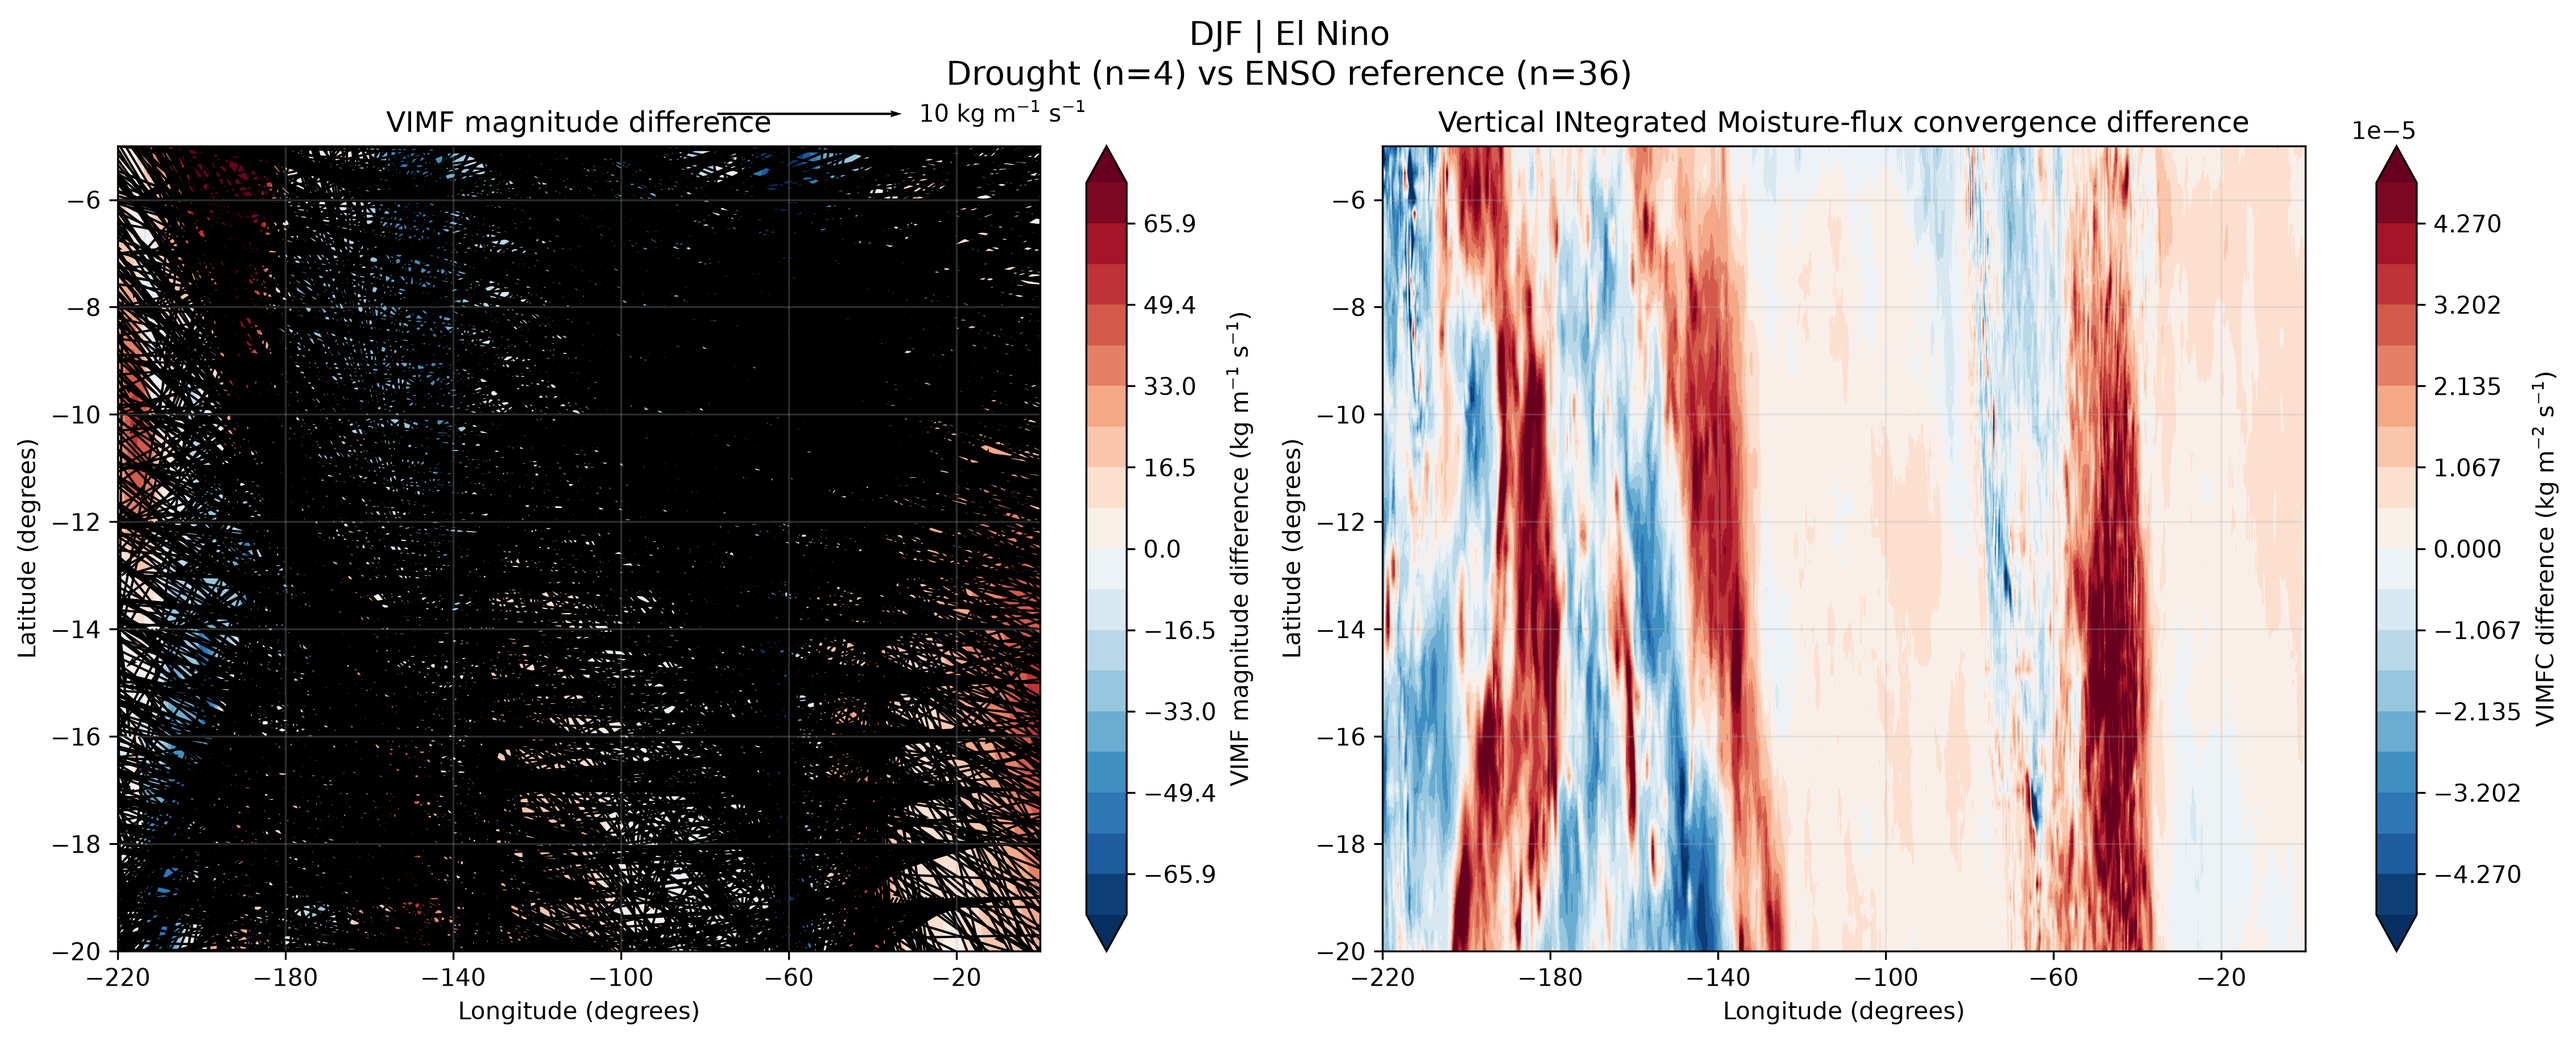
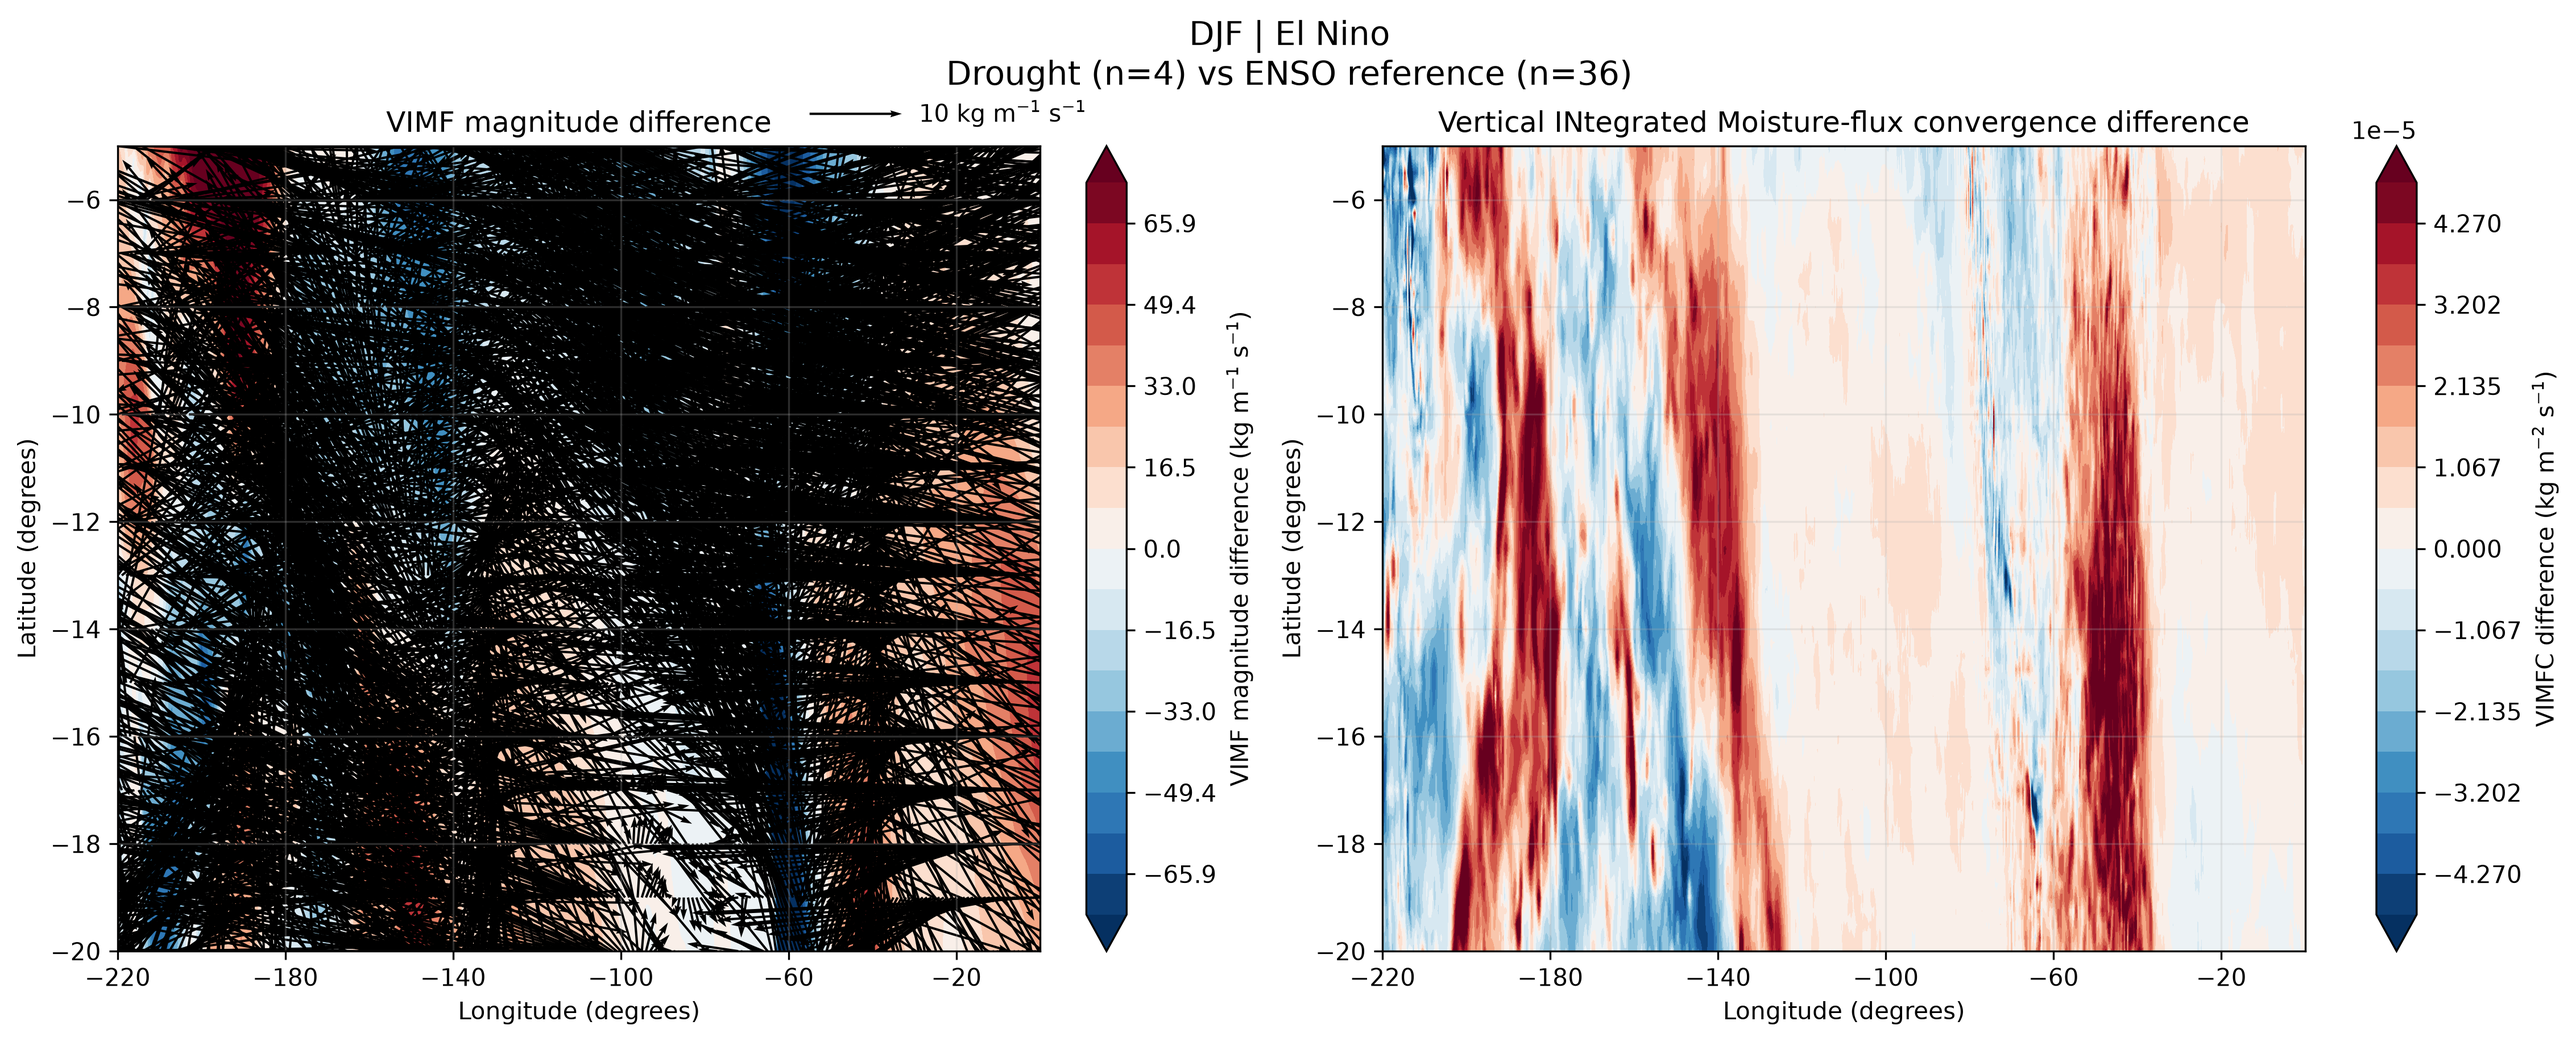
Modify figures

diff --git a/vimf-project/main.py b/vimf-project/main.py
@@ -444,7 +444,7 @@ def plot_case(
         U[::step, ::step],
         V[::step, ::step],
         color="black",
-        scale=50,
+        scale=100,
         width=0.0025
     )
 
